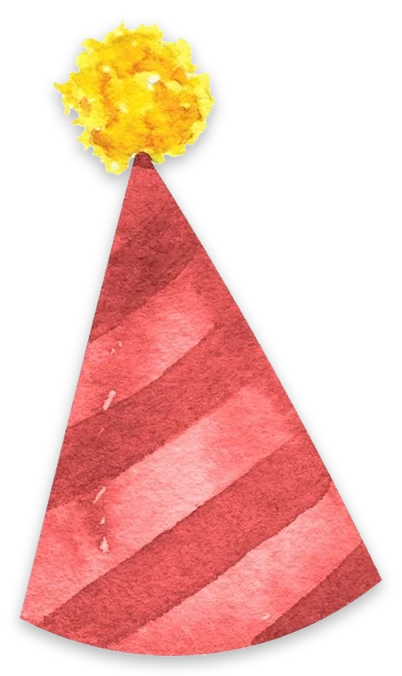
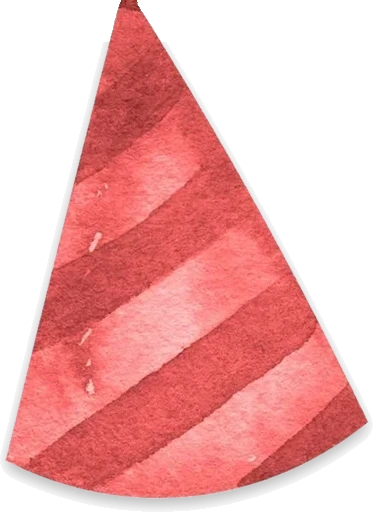
fix(invitaciones): gorro del 30 sin pompón amarillo, más grande y en diagonal

diff --git a/projects/invitaciones/src/components/Invitacion.tsx b/projects/invitaciones/src/components/Invitacion.tsx
@@ -193,8 +193,8 @@ export function Invitacion({ config, invitado, vistaPrevia = false }: { config: 
             <p className="f-serif mx-auto max-w-[13rem] text-[1.176rem] leading-snug">{c.bienvenida_linea}</p>
           </Entra>
           <Escribe className="f-script mt-1 text-[3.6rem] leading-none" retraso={0.3}>{c.bienvenida_palabra}</Escribe>
-          <Entra retraso={0.5} className="relative mt-[88px]">
-            <Pegatina nombre="gorro-rojo" ancho={72} rot={9} className="-top-[96px] right-[50px] z-[3]" />
+          <Entra retraso={0.5} className="relative mt-[128px]">
+            <Pegatina nombre="gorro-rojo" ancho={112} rot={24} className="-top-[124px] right-[30px] z-[3]" />
             <span className="globo-num text-[12rem]" data-t={c.bienvenida_numero} style={{ '--num': colorOk(c.numero_color_bienvenida) } as CSSProperties}>{c.bienvenida_numero}</span>
             <Escribe className="f-firma absolute inset-x-0 bottom-1 text-[4.2rem] leading-none" retraso={1.1} dur={1.6}>
               {(() => {
